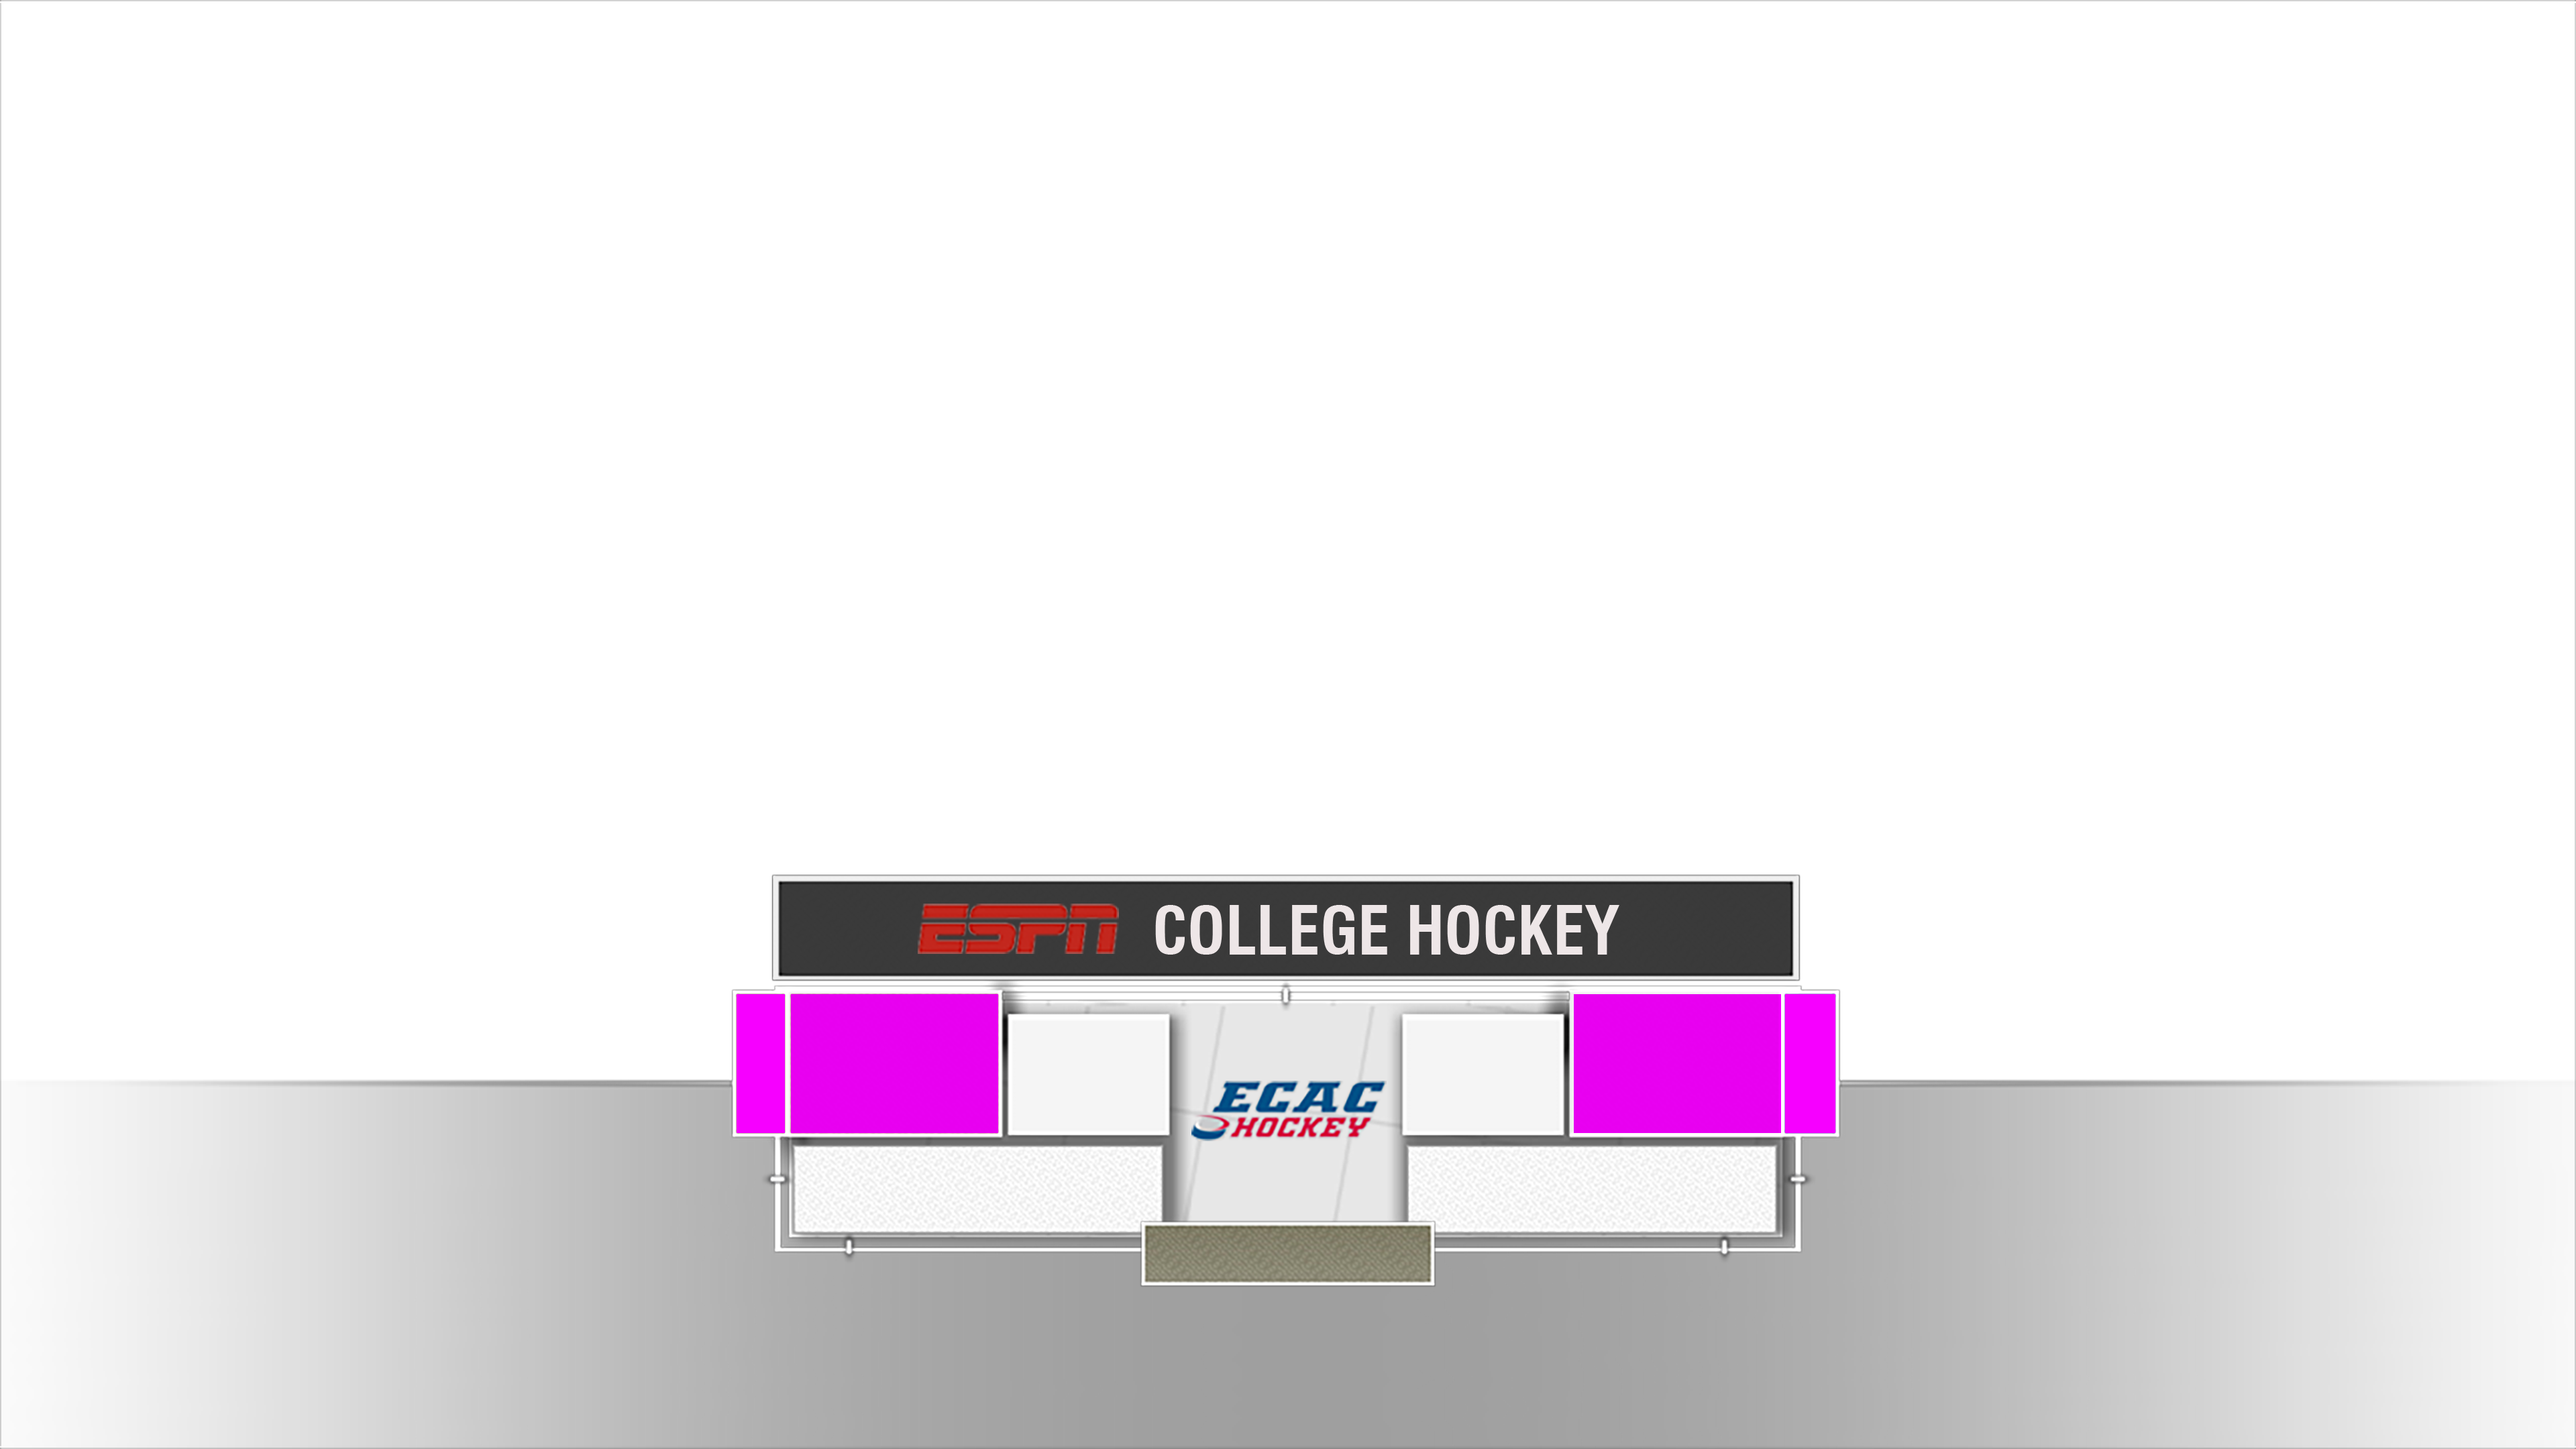
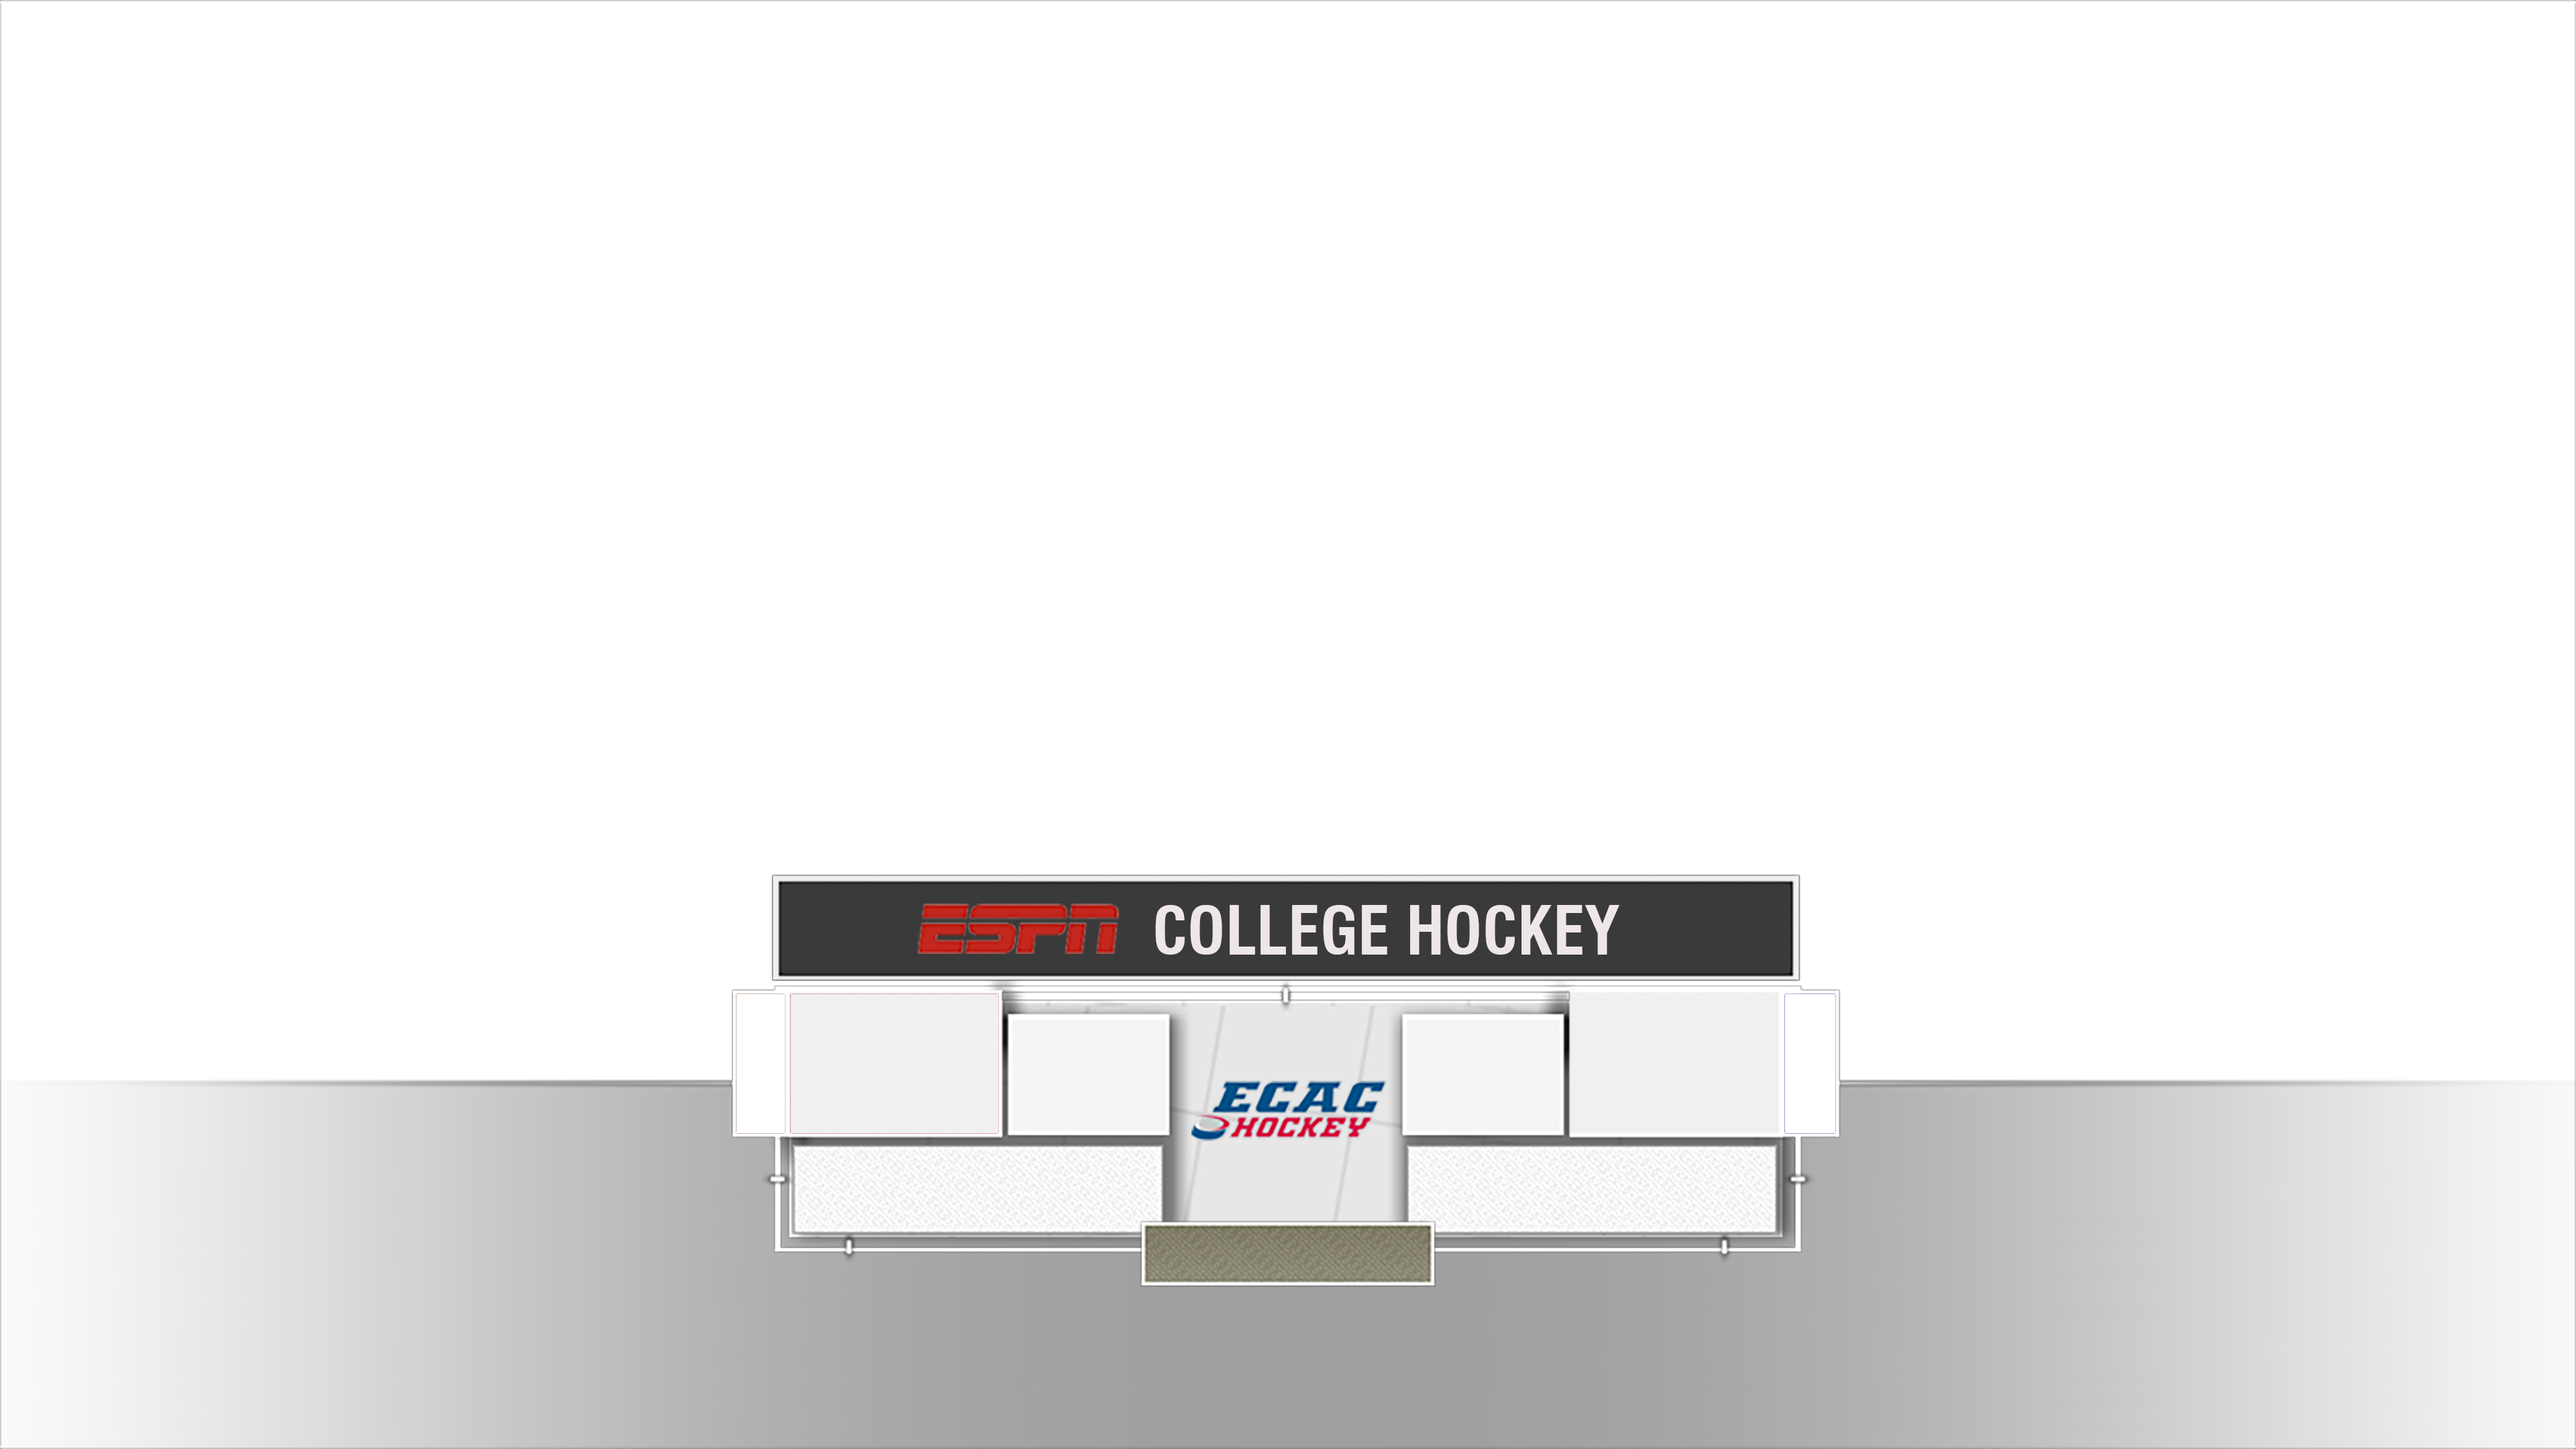
Added Locator
Enabled automated locator rendering. Figured out how to make input fields for the commentators more prettier.

Changed region(s): [[0.5938, 0.6824, 0.7188, 0.8065], [0.2812, 0.6824, 0.4062, 0.8065]]

diff --git a/apps/glimpse-graphics/src/graphics/glimpse/styles/espn/lower-third/Locator.vue b/apps/glimpse-graphics/src/graphics/glimpse/styles/espn/lower-third/Locator.vue
@@ -1,0 +1,108 @@
+<template>
+	<img :src="Locator">
+	<div id="team1SecondaryColor" :style="{'background-color': replicants.teams[0].secondaryColor.value}"></div>
+	<div id="team1PrimaryColor" :style="{'background-color': replicants.teams[0].primaryColor.value}"></div>
+	<div id="team2SecondaryColor" :style="{'background-color': replicants.teams[1].secondaryColor.value}"></div>
+	<div id="team2PrimaryColor" :style="{'background-color': replicants.teams[1].primaryColor.value}"></div>
+	<div class="team1Logo">
+		<img id="team1Logo" :src="replicants.teams[0].logo.value">
+	</div>
+	<div class="team2Logo">
+		<img id="team2Logo" :src="replicants.teams[1].logo.value">
+	</div>
+	<div class="team1Name">{{replicants.teams[0].name.value}}</div>
+	<div class="team2Name">{{replicants.teams[1].name.value}}</div>
+</template>
+
+<script setup lang="ts">
+import Locator from "../../../../../Locator.png"
+import {loadReplicants} from "../../../../../browser-common/replicants";
+
+const replicants = await loadReplicants();
+</script>
+
+<style scoped>
+@font-face {
+	font-family: "swiss721_heavy";
+	src: url('Swiss721Heavy.ttf')
+}
+div {
+	position: absolute;
+	font-family: "swiss721_heavy";
+}
+img {
+	position: absolute;
+	top: 0;
+	left: 0;
+	width: 100vw;
+	height: 100vh;
+}
+#team1SecondaryColor {
+	left: 29.5vw;
+	bottom: 22.1vh;
+	width: 2.7vw;
+	height: 9.6vh;
+}
+#team1PrimaryColor {
+	left: 32.4vw;
+	bottom: 22.1vh;
+	width: 11.8vw;
+	height: 9.6vh;
+}
+#team2SecondaryColor {
+	left: 67.6vw;
+	width: 2.7vw;
+	bottom: 22.1vh;
+	height: 9.6vh;
+}
+#team2PrimaryColor {
+	left: 55.6vw;
+	bottom: 22.1vh;
+	width: 11.9vw;
+	height: 9.6vh;
+}
+.team1Logo {
+	left: 0;
+	bottom: 22.1vh;
+	width: 76.67vw;
+	display: flex;
+	justify-content: center;
+}
+#team1Logo {
+	position: relative;
+	height: auto;
+	width: auto;
+	max-width: 11.9vw;
+	max-height: 9.6vh;
+}
+.team2Logo {
+	left: 0;
+	bottom: 22.1vh;
+	width: 123vw;
+	display: flex;
+	justify-content: center;
+}
+#team2Logo {
+	position: relative;
+	height: auto;
+	width: auto;
+	max-width: 11.9vw;
+	max-height: 9.6vh;
+}
+.team1Name {
+	left: 0;
+	color: rgba(63,63,63);
+	font-size: 3.5vh;
+	width: 75.9vw;
+	text-align: center;
+	bottom: 16.1vh;
+}
+.team2Name {
+	left: 0;
+	color: rgba(63,63,63);
+	font-size: 3.5vh;
+	width: 123.5vw;
+	text-align: center;
+	bottom: 16.1vh;
+}
+</style>

diff --git a/apps/glimpse-graphics/src/dashboard/lower-third/LowerThird.vue b/apps/glimpse-graphics/src/dashboard/lower-third/LowerThird.vue
@@ -5,13 +5,19 @@
 			{{ replicants.lowerThird.scoreboard.value ? "Hide" : "Show" }}
 		</n-button>
 		<h2>Display Commentators/Interviewer and Interviewee</h2>
-		<input placeholder="Left Person" style="max-width: 40%"
-			   v-model="replicants.lowerThird.commentators.leftPerson.value"/>
-		<input placeholder="Right Person" :style="{'max-width': '40%', 'margin-left': '20px'}"
-			   v-model="replicants.lowerThird.commentators.rightPerson.value"/>
+		<n-input :on-update:value="(string) => replicants.lowerThird.commentators.leftPerson.value = string"
+				 :default-value="replicants.lowerThird.commentators.leftPerson.value"
+				 :style="{'max-width': '40%', 'margin-right': '20px'}" placeholder="Left Person"/>
+		<n-input :on-update:value="(string) => replicants.lowerThird.commentators.rightPerson.value = string"
+				 :default-value="replicants.lowerThird.commentators.rightPerson.value" style="max-width: 40%"
+				 placeholder="Right Person"/>
 		<n-button @click="replicants.lowerThird.commentators.show.value = !replicants.lowerThird.commentators.show.value"
 				  style="margin-left: 20px">
-			{{ replicants.lowerThird.commentators.show.value ? "Hide" : "Show"}}
+			{{ replicants.lowerThird.commentators.show.value ? "Hide" : "Show" }}
+		</n-button>
+		<h2>Display Locator</h2>
+		<n-button @click="replicants.lowerThird.locator.value = !replicants.lowerThird.locator.value">
+			{{ replicants.lowerThird.locator.value ? "Hide" : "Show" }}
 		</n-button>
 	</div>
 </template>

diff --git a/apps/glimpse-graphics/src/graphics/glimpse/styles/espn/LowerThird.vue b/apps/glimpse-graphics/src/graphics/glimpse/styles/espn/LowerThird.vue
@@ -5,11 +5,15 @@
 	<div :class="{show: replicants.lowerThird.commentators.show.value, hide: !replicants.lowerThird.commentators.show.value}">
 		<Commentators />
 	</div>
+	<div :class="{show: replicants.lowerThird.locator.value, hide: !replicants.lowerThird.locator.value}">
+		<Locator />
+	</div>
 </template>
 
 <script setup lang="ts">
 import Scoreboard from "./lower-third/Scoreboard.vue";
 import Commentators from "./lower-third/Commentators.vue";
+import Locator from "./lower-third/Locator.vue";
 import {loadReplicants} from "../../../../browser-common/replicants";
 
 const replicants = await loadReplicants();

diff --git a/apps/glimpse-graphics/src/browser-common/replicants.ts b/apps/glimpse-graphics/src/browser-common/replicants.ts
@@ -118,7 +118,7 @@ export async function loadReplicants() {
 				show: await replicant<boolean>("commentators", `glimpse-graphics.images.lowerThird`, {defaultValue: false}),
 				leftPerson: await replicant<string>("leftPerson", `glimpse-graphics.images.lowerThird`, {defaultValue: "Dan Bahl"}),
 				rightPerson: await replicant<string>("rightPerson", `glimpse-graphics.images.lowerThird`, {defaultValue: "Dan Fridgen"})
-			}
+			},
 		}
 	}
 }
